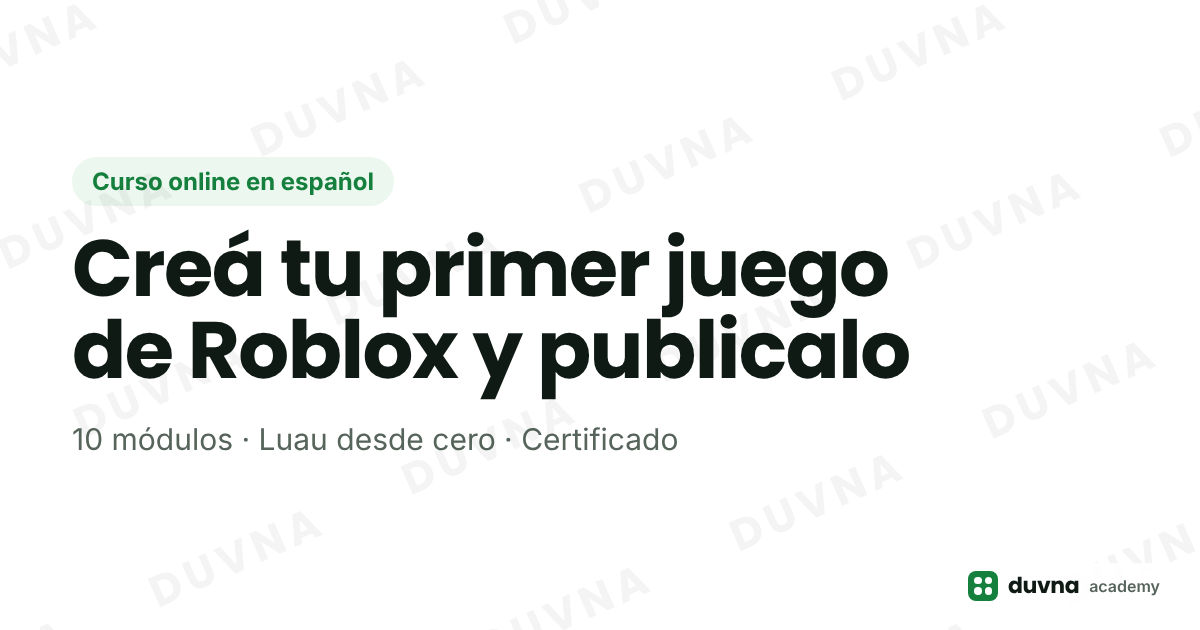
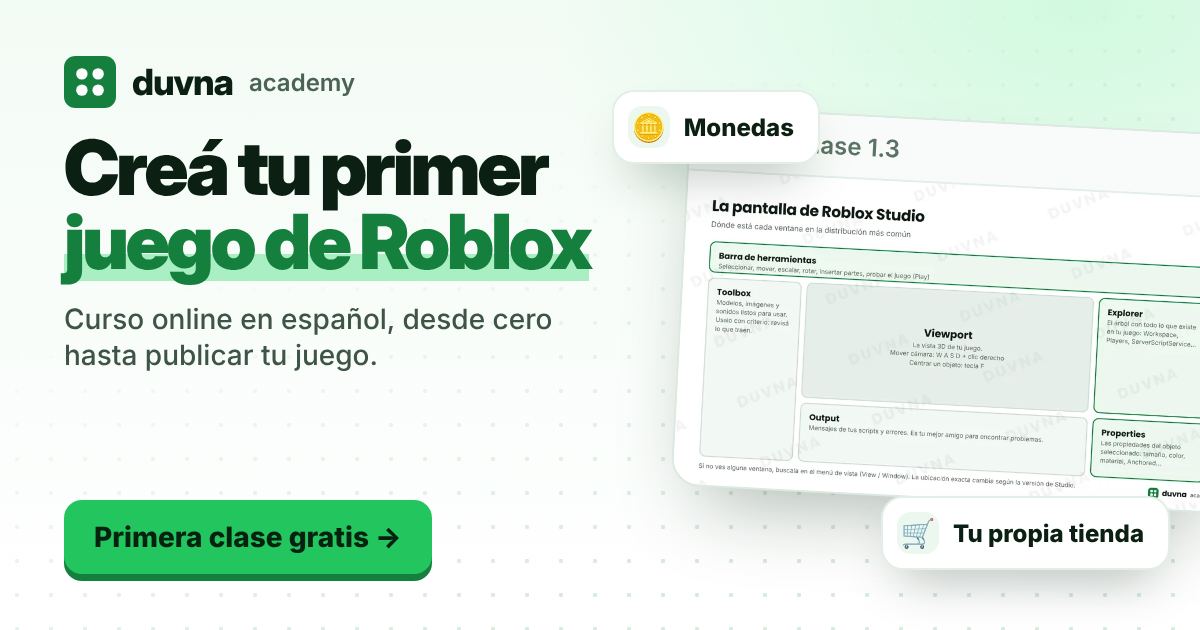
Más llamativa: barra de anuncio, título resaltado, etiquetas flotantes, cinta, sección de lo que vas a construir y nueva imagen para compartir
Claude-Session: https://claude.ai/code/session_01DCmpbSD8tgPt53yL34F5Rg

diff --git a/cursos/roblox-luau.html b/cursos/roblox-luau.html
@@ -25,6 +25,7 @@
   <script type="application/ld+json">{"@context": "https://schema.org", "@graph": [{"@type": "Course", "name": "Programación de juegos en Roblox con Luau", "description": "Curso online en español: aprendé a programar juegos en Roblox con Luau, desde cero hasta publicar tu propio juego.", "inLanguage": "es", "url": "https://lautiiaquino.github.io/duvna/cursos/roblox-luau.html", "image": "https://lautiiaquino.github.io/duvna/assets/og-curso-roblox.png", "provider": {"@type": "Organization", "name": "Duvna Academy", "url": "https://lautiiaquino.github.io/duvna/"}, "hasCourseInstance": {"@type": "CourseInstance", "courseMode": "online", "courseWorkload": "PT40H"}, "offers": {"@type": "Offer", "price": "4999", "priceCurrency": "ARS", "category": "Subscription", "availability": "https://schema.org/InStock", "url": "https://lautiiaquino.github.io/duvna/inscripcion.html?curso=roblox-luau"}}, {"@type": "FAQPage", "mainEntity": [{"@type": "Question", "name": "¿Necesito saber programar?", "acceptedAnswer": {"@type": "Answer", "text": "No. El curso empieza desde cero. Si ya programaste algo, vas a avanzar más rápido en los primeros módulos."}}, {"@type": "Question", "name": "¿Qué necesito para hacer el curso?", "acceptedAnswer": {"@type": "Answer", "text": "Una computadora con Windows o Mac, Roblox Studio (que es gratis) y una cuenta de Roblox. Desde el celular no se puede programar en Studio."}}, {"@type": "Question", "name": "¿Voy a ganar plata con mi juego?", "acceptedAnswer": {"@type": "Answer", "text": "Te enseñamos cómo funciona la monetización en Roblox y cómo armar una tienda. Cuánto gane un juego depende de la idea, la constancia y la cantidad de jugadores, así que no podemos prometerte ingresos."}}, {"@type": "Question", "name": "¿Cómo me doy de baja?", "acceptedAnswer": {"@type": "Answer", "text": "Con el botón de baja que está al pie de todas las páginas, en cualquier momento. No te pedimos explicaciones."}}, {"@type": "Question", "name": "Soy menor de edad, ¿puedo inscribirme?", "acceptedAnswer": {"@type": "Answer", "text": "Sí, con la autorización de tu madre, padre o tutor. La persona adulta es quien acepta los términos y realiza el pago."}}, {"@type": "Question", "name": "¿El certificado es oficial?", "acceptedAnswer": {"@type": "Answer", "text": "Es un certificado privado de Duvna Academy que acredita que completaste el curso, con un código que cualquiera puede verificar. No es un título oficial."}}]}]}</script>
 </head>
 <body class="has-buybar">
+  <a class="anuncio" href="../aula.html"><span class="anuncio-dot" aria-hidden="true"></span><b>La primera clase es gratis</b><span class="anuncio-sep">·</span><span>sin tarjeta y sin registrarte</span><span class="anuncio-cta">Probala ahora →</span></a>
   <header id="site-header" class="site-header"></header>
 
   <main>
@@ -32,8 +33,8 @@
     <section class="hero hero-v2">
       <div class="wrap">
         <div class="hero-text">
-          <span class="pill">Curso online en español</span>
-          <h1>Creá tu primer juego de Roblox y publicalo</h1>
+          <span class="pill pill-live"><i aria-hidden="true"></i>Curso online en español · Empezás hoy</span>
+          <h1>Creá tu primer <span class="resalte">juego de Roblox</span> y publicalo</h1>
           <p class="lead">Aprendé a programar en Luau desde cero y terminá el curso con tu propio juego completo, publicado en Roblox.</p>
           <div class="hero-ctas">
             <a class="btn btn-primary btn-lg" data-buy="roblox-luau" href="#precio">Quiero mi acceso</a>
@@ -57,6 +58,9 @@
             <div class="hero-screen-bar" aria-hidden="true"><i></i><i></i><i></i><span>Clase 1.3 · La pantalla de Studio</span></div>
             <img src="../assets/img/u01-interfaz-studio.webp" alt="Diagrama de la clase 1.3 con las ventanas de Roblox Studio" width="960" height="540">
           </figure>
+          <div class="flota flota-1" aria-hidden="true"><span>🪙</span>Monedas que se guardan</div>
+          <div class="flota flota-2" aria-hidden="true"><span>🛒</span>Tu propia tienda</div>
+          <div class="flota flota-3" aria-hidden="true"><span>👥</span>Multijugador</div>
           <div class="offer" id="oferta">
             <div class="label">Suscripción mensual</div>
             <div class="price"><span data-price="roblox-luau">ARS 4.999</span></div>
@@ -73,6 +77,11 @@
       </div>
     </section>
 
+    <!-- Cinta: lo que vas a programar -->
+    <div class="cinta" aria-label="Lo que vas a programar en el curso">
+      <div class="cinta-pista"><ul><li>Monedas</li><li>Checkpoints</li><li>Trampas</li><li>Puertas y llaves</li><li>Plataformas móviles</li><li>Menús en pantalla</li><li>Datos guardados</li><li>Tienda</li><li>Game Passes</li><li>Multijugador</li><li>Tu juego publicado</li></ul><ul aria-hidden="true"><li>Monedas</li><li>Checkpoints</li><li>Trampas</li><li>Puertas y llaves</li><li>Plataformas móviles</li><li>Menús en pantalla</li><li>Datos guardados</li><li>Tienda</li><li>Game Passes</li><li>Multijugador</li><li>Tu juego publicado</li></ul></div>
+    </div>
+
     <!-- 2. El problema -->
     <section class="section section-alt">
       <div class="wrap">
@@ -87,6 +96,26 @@
         </div>
         <p class="bridge">Este curso está armado para que eso no te pase: un paso por vez, en orden, hasta tener tu juego terminado.</p>
         <p style="text-align:center;margin:20px auto 0"><a class="btn btn-ghost" href="#programa">Ver el programa</a></p>
+      </div>
+    </section>
+
+    <!-- Lo que vas a construir -->
+    <section class="section construir">
+      <div class="wrap">
+        <div class="section-head center">
+          <span class="kicker">Lo que vas a construir</span>
+          <h2>De la primera parte al juego publicado</h2>
+          <p>No son ejercicios sueltos: cada unidad le suma algo real a tu juego.</p>
+        </div>
+        <ol class="hitos">
+          <li><span class="hito-n">01</span><span class="hito-e" aria-hidden="true">🧱</span><b>Tu primer mapa</b><p>Partes, colores y física en Roblox Studio, y tu primer script funcionando.</p></li>
+          <li><span class="hito-n">02</span><span class="hito-e" aria-hidden="true">⚡</span><b>Un mundo que reacciona</b><p>Puertas con llave, trampas que te devuelven al inicio y plataformas que se mueven.</p></li>
+          <li><span class="hito-n">03</span><span class="hito-e" aria-hidden="true">🪙</span><b>Monedas y checkpoints</b><p>Tabla de puntos, monedas para juntar y puntos de control para no perder lo avanzado.</p></li>
+          <li><span class="hito-n">04</span><span class="hito-e" aria-hidden="true">💾</span><b>Progreso guardado</b><p>Lo que junta cada jugador queda guardado aunque salga y vuelva otro día.</p></li>
+          <li><span class="hito-n">05</span><span class="hito-e" aria-hidden="true">🛒</span><b>Tienda y pases</b><p>Una tienda con monedas del juego, Game Passes y productos, siguiendo las reglas de Roblox.</p></li>
+          <li class="hito-final"><span class="hito-n">06</span><span class="hito-e" aria-hidden="true">🚀</span><b>Tu juego publicado</b><p>Lo probás, lo pulís y lo publicás para que lo juegue cualquiera.</p></li>
+        </ol>
+        <p class="construir-cta"><a class="btn btn-primary btn-lg" data-buy="roblox-luau" href="#precio">Quiero empezar a crear</a><a class="btn btn-ghost btn-lg" href="../aula.html">Probar la clase gratis</a></p>
       </div>
     </section>
 

diff --git a/assets/css/duvna.css b/assets/css/duvna.css
@@ -706,3 +706,82 @@ h2 { letter-spacing: -0.035em; }
 @media (max-width: 900px) { .hero-home .studio { transform: none; } }
 .course { box-shadow: var(--soft); transition: transform .2s, box-shadow .2s; }
 .course.is-open:hover { transform: translateY(-3px); box-shadow: var(--lift); }
+
+/* ================= Más llamativa (v3) ================= */
+/* Barra de anuncio */
+.anuncio { display: flex; flex-wrap: wrap; align-items: center; justify-content: center; gap: 6px 10px; padding: 10px 16px;
+  background: linear-gradient(90deg, #14532d, #15803d 50%, #14532d); background-size: 200% 100%; animation: anuncio-mov 8s linear infinite;
+  color: #ecfdf3; font-size: .92rem; text-align: center; text-decoration: none; }
+.anuncio:hover { color: #fff; }
+.anuncio b { color: #fff; }
+.anuncio-sep { opacity: .6; }
+.anuncio-cta { font-weight: 700; color: #86efac; margin-left: 4px; }
+.anuncio-dot { width: 8px; height: 8px; border-radius: 50%; background: #4ade80; box-shadow: 0 0 0 0 rgba(74, 222, 128, .7); animation: pulso 1.8s infinite; }
+@keyframes anuncio-mov { to { background-position: -200% 0; } }
+@keyframes pulso { 0% { box-shadow: 0 0 0 0 rgba(74, 222, 128, .7); } 70% { box-shadow: 0 0 0 9px rgba(74, 222, 128, 0); } 100% { box-shadow: 0 0 0 0 rgba(74, 222, 128, 0); } }
+@media (max-width: 560px) { .anuncio-sep, .anuncio > span:nth-of-type(3) { display: none; } }
+
+/* Pill con punto en vivo */
+.pill-live { display: inline-flex; align-items: center; gap: 8px; }
+.pill-live i { width: 8px; height: 8px; border-radius: 50%; background: #22c55e; animation: pulso 1.8s infinite; }
+
+/* Palabra resaltada del título */
+.resalte { position: relative; white-space: nowrap; color: var(--sun);
+  background: linear-gradient(transparent 62%, rgba(74, 222, 128, .38) 62%, rgba(74, 222, 128, .38) 92%, transparent 92%) no-repeat 0 0 / 0% 100%;
+  animation: marcar 1s .35s cubic-bezier(.2, .7, .2, 1) forwards; }
+@keyframes marcar { to { background-size: 100% 100%; } }
+@media (max-width: 420px) { .resalte { white-space: normal; } }
+
+/* Etiquetas flotando sobre la captura */
+.flota { position: absolute; z-index: 3; display: flex; align-items: center; gap: 8px; padding: 9px 14px 9px 10px; background: #fff;
+  border: 1px solid var(--line); border-radius: 14px; box-shadow: var(--lift); font-weight: 700; font-size: .9rem; color: var(--text);
+  animation: flotar 5s ease-in-out infinite; }
+.flota span { display: grid; place-items: center; width: 30px; height: 30px; border-radius: 9px; background: #ecf7ef; font-size: 1rem; }
+.flota-1 { top: -22px; right: 4%; }
+.flota-2 { top: 30%; right: -26px; animation-delay: -1.6s; }
+.flota-3 { top: 52%; left: -34px; animation-delay: -3.2s; }
+@keyframes flotar { 0%, 100% { transform: translateY(0); } 50% { transform: translateY(-9px); } }
+@media (max-width: 900px) {
+  .flota { font-size: .8rem; padding: 6px 10px 6px 7px; }
+  .flota span { width: 24px; height: 24px; font-size: .85rem; }
+  .flota-1 { top: -14px; left: 6px; }
+  .flota-2 { top: 18%; right: 6px; }
+  .flota-3 { display: none; }
+}
+
+/* Cinta en movimiento */
+.cinta { overflow: hidden; background: #0f2e1b; color: #dcfce7; padding: 16px 0; border-block: 1px solid #14532d; }
+.cinta-pista { display: flex; width: max-content; animation: cinta 38s linear infinite; }
+.cinta ul { display: flex; list-style: none; margin: 0; padding: 0; }
+.cinta li { display: flex; align-items: center; gap: 22px; padding-right: 22px; font: 700 clamp(1rem, 2vw, 1.25rem) var(--display); letter-spacing: -0.01em; white-space: nowrap; }
+.cinta li::after { content: ""; width: 10px; height: 10px; border-radius: 3px; background: #22c55e; transform: rotate(45deg); }
+.cinta:hover .cinta-pista { animation-play-state: paused; }
+@keyframes cinta { to { transform: translateX(-50%); } }
+
+/* Lo que vas a construir */
+.kicker { display: inline-block; font: 700 .78rem var(--body); letter-spacing: .12em; text-transform: uppercase; color: var(--sun); margin-bottom: 10px; }
+.hitos { list-style: none; padding: 0; margin: 0; display: grid; grid-template-columns: repeat(3, minmax(0, 1fr)); gap: 18px; counter-reset: none; }
+.hitos li { position: relative; overflow: hidden; background: #fff; border: 1px solid var(--line); border-radius: 20px; padding: 26px 24px 24px; box-shadow: var(--soft); transition: transform .25s, box-shadow .25s, border-color .25s; }
+.hitos li:hover { transform: translateY(-4px); box-shadow: var(--lift); border-color: rgba(21, 128, 61, .35); }
+.hito-n { position: absolute; top: 10px; right: 16px; font: 800 3.4rem/1 var(--display); color: #ecf7ef; letter-spacing: -0.04em; }
+.hito-e { position: relative; display: grid; place-items: center; width: 52px; height: 52px; border-radius: 15px; background: linear-gradient(135deg, #dcfce7, #bbf7d0); font-size: 1.5rem; margin-bottom: 16px; }
+.hitos b { position: relative; display: block; font: 700 1.12rem var(--display); letter-spacing: -0.01em; margin-bottom: 6px; }
+.hitos p { position: relative; margin: 0; color: var(--muted); font-size: .97rem; }
+.hitos .hito-final { background: linear-gradient(135deg, #14532d, #15803d 60%, #16a34a); border-color: transparent; }
+.hitos .hito-final b { color: #fff; }
+.hitos .hito-final p { color: #dcfce7; }
+.hitos .hito-final .hito-n { color: rgba(255, 255, 255, .12); }
+.hitos .hito-final .hito-e { background: rgba(255, 255, 255, .16); }
+.construir-cta { max-width: none; width: 100%; display: flex; flex-wrap: wrap; justify-content: center; gap: 12px; margin: 36px 0 0; }
+@media (max-width: 900px) { .hitos { grid-template-columns: repeat(2, minmax(0, 1fr)); } }
+@media (max-width: 560px) { .hitos { grid-template-columns: minmax(0, 1fr); } }
+
+/* Aparecer al hacer scroll */
+.revelar { opacity: 0; transform: translateY(18px); transition: opacity .6s ease, transform .6s ease; }
+.revelar.visto { opacity: 1; transform: none; }
+
+@media (prefers-reduced-motion: reduce) {
+  .anuncio, .anuncio-dot, .pill-live i, .flota, .cinta-pista { animation: none; }
+  .resalte { animation: none; background-size: 100% 100%; }
+  .revelar { opacity: 1; transform: none; transition: none; }
+}

diff --git a/index.html b/index.html
@@ -24,14 +24,15 @@
   <script type="application/ld+json">{"@context": "https://schema.org", "@type": "EducationalOrganization", "name": "Duvna Academy", "url": "https://lautiiaquino.github.io/duvna/", "logo": "https://lautiiaquino.github.io/duvna/assets/img/icono-512.png", "founder": {"@type": "Person", "name": "Lautaro Aquino"}}</script>
 </head>
 <body>
+  <a class="anuncio" href="aula.html"><span class="anuncio-dot" aria-hidden="true"></span><b>La primera clase es gratis</b><span class="anuncio-sep">·</span><span>sin tarjeta y sin registrarte</span><span class="anuncio-cta">Probala ahora →</span></a>
   <header id="site-header" class="site-header"></header>
 
   <main>
     <section class="hero hero-v2 hero-home">
       <div class="wrap">
         <div>
-          <span class="pill">Nuevo: curso de Roblox con Luau</span>
-          <h1>Aprendé a crear lo que hoy solo usás</h1>
+          <span class="pill pill-live"><i aria-hidden="true"></i>Nuevo: curso de Roblox con Luau</span>
+          <h1>Aprendé a crear lo que hoy <span class="resalte">solo usás</span></h1>
           <p class="lead">Cursos online en español, armados como un programa real: módulos en orden, código que escribís vos y un proyecto terminado al final.</p>
           <div class="hero-ctas">
             <a class="btn btn-primary btn-lg" href="cursos/roblox-luau.html">Ver el curso de Roblox</a>
@@ -74,6 +75,11 @@ Players.PlayerRemoving:<span class="tk-f">Connect</span>(<span class="tk-k">func
         </figure>
       </div>
     </section>
+
+    <!-- Cinta: lo que vas a programar -->
+    <div class="cinta" aria-label="Lo que vas a programar en el curso de Roblox">
+      <div class="cinta-pista"><ul><li>Monedas</li><li>Checkpoints</li><li>Trampas</li><li>Puertas y llaves</li><li>Plataformas móviles</li><li>Menús en pantalla</li><li>Datos guardados</li><li>Tienda</li><li>Game Passes</li><li>Multijugador</li><li>Tu juego publicado</li></ul><ul aria-hidden="true"><li>Monedas</li><li>Checkpoints</li><li>Trampas</li><li>Puertas y llaves</li><li>Plataformas móviles</li><li>Menús en pantalla</li><li>Datos guardados</li><li>Tienda</li><li>Game Passes</li><li>Multijugador</li><li>Tu juego publicado</li></ul></div>
+    </div>
 
     <section class="section section-alt" id="cursos">
       <div class="wrap">

diff --git a/assets/js/app.js b/assets/js/app.js
@@ -208,3 +208,16 @@ function renderConfigFields() {
 renderHeader();
 renderPrices();
 renderWhatsApp();
+
+// Animación suave al aparecer cada bloque (solo en las páginas de venta)
+(function revelar() {
+  if (!("IntersectionObserver" in window)) return;
+  if (matchMedia("(prefers-reduced-motion: reduce)").matches) return;
+  const sel = ".hitos li, .pains > div, .modules details, .galeria figure, .steps li, .course, .faq details, .includes li, .build li";
+  const els = [...document.querySelectorAll(sel)].filter(el => el.getBoundingClientRect().top > innerHeight);
+  if (!els.length) return;
+  const io = new IntersectionObserver((entradas) => {
+    entradas.forEach((e) => { if (e.isIntersecting) { e.target.classList.add("visto"); io.unobserve(e.target); } });
+  }, { rootMargin: "0px 0px -8% 0px" });
+  els.forEach((el, i) => { el.classList.add("revelar"); el.style.transitionDelay = `${(i % 3) * 70}ms`; io.observe(el); });
+})();
